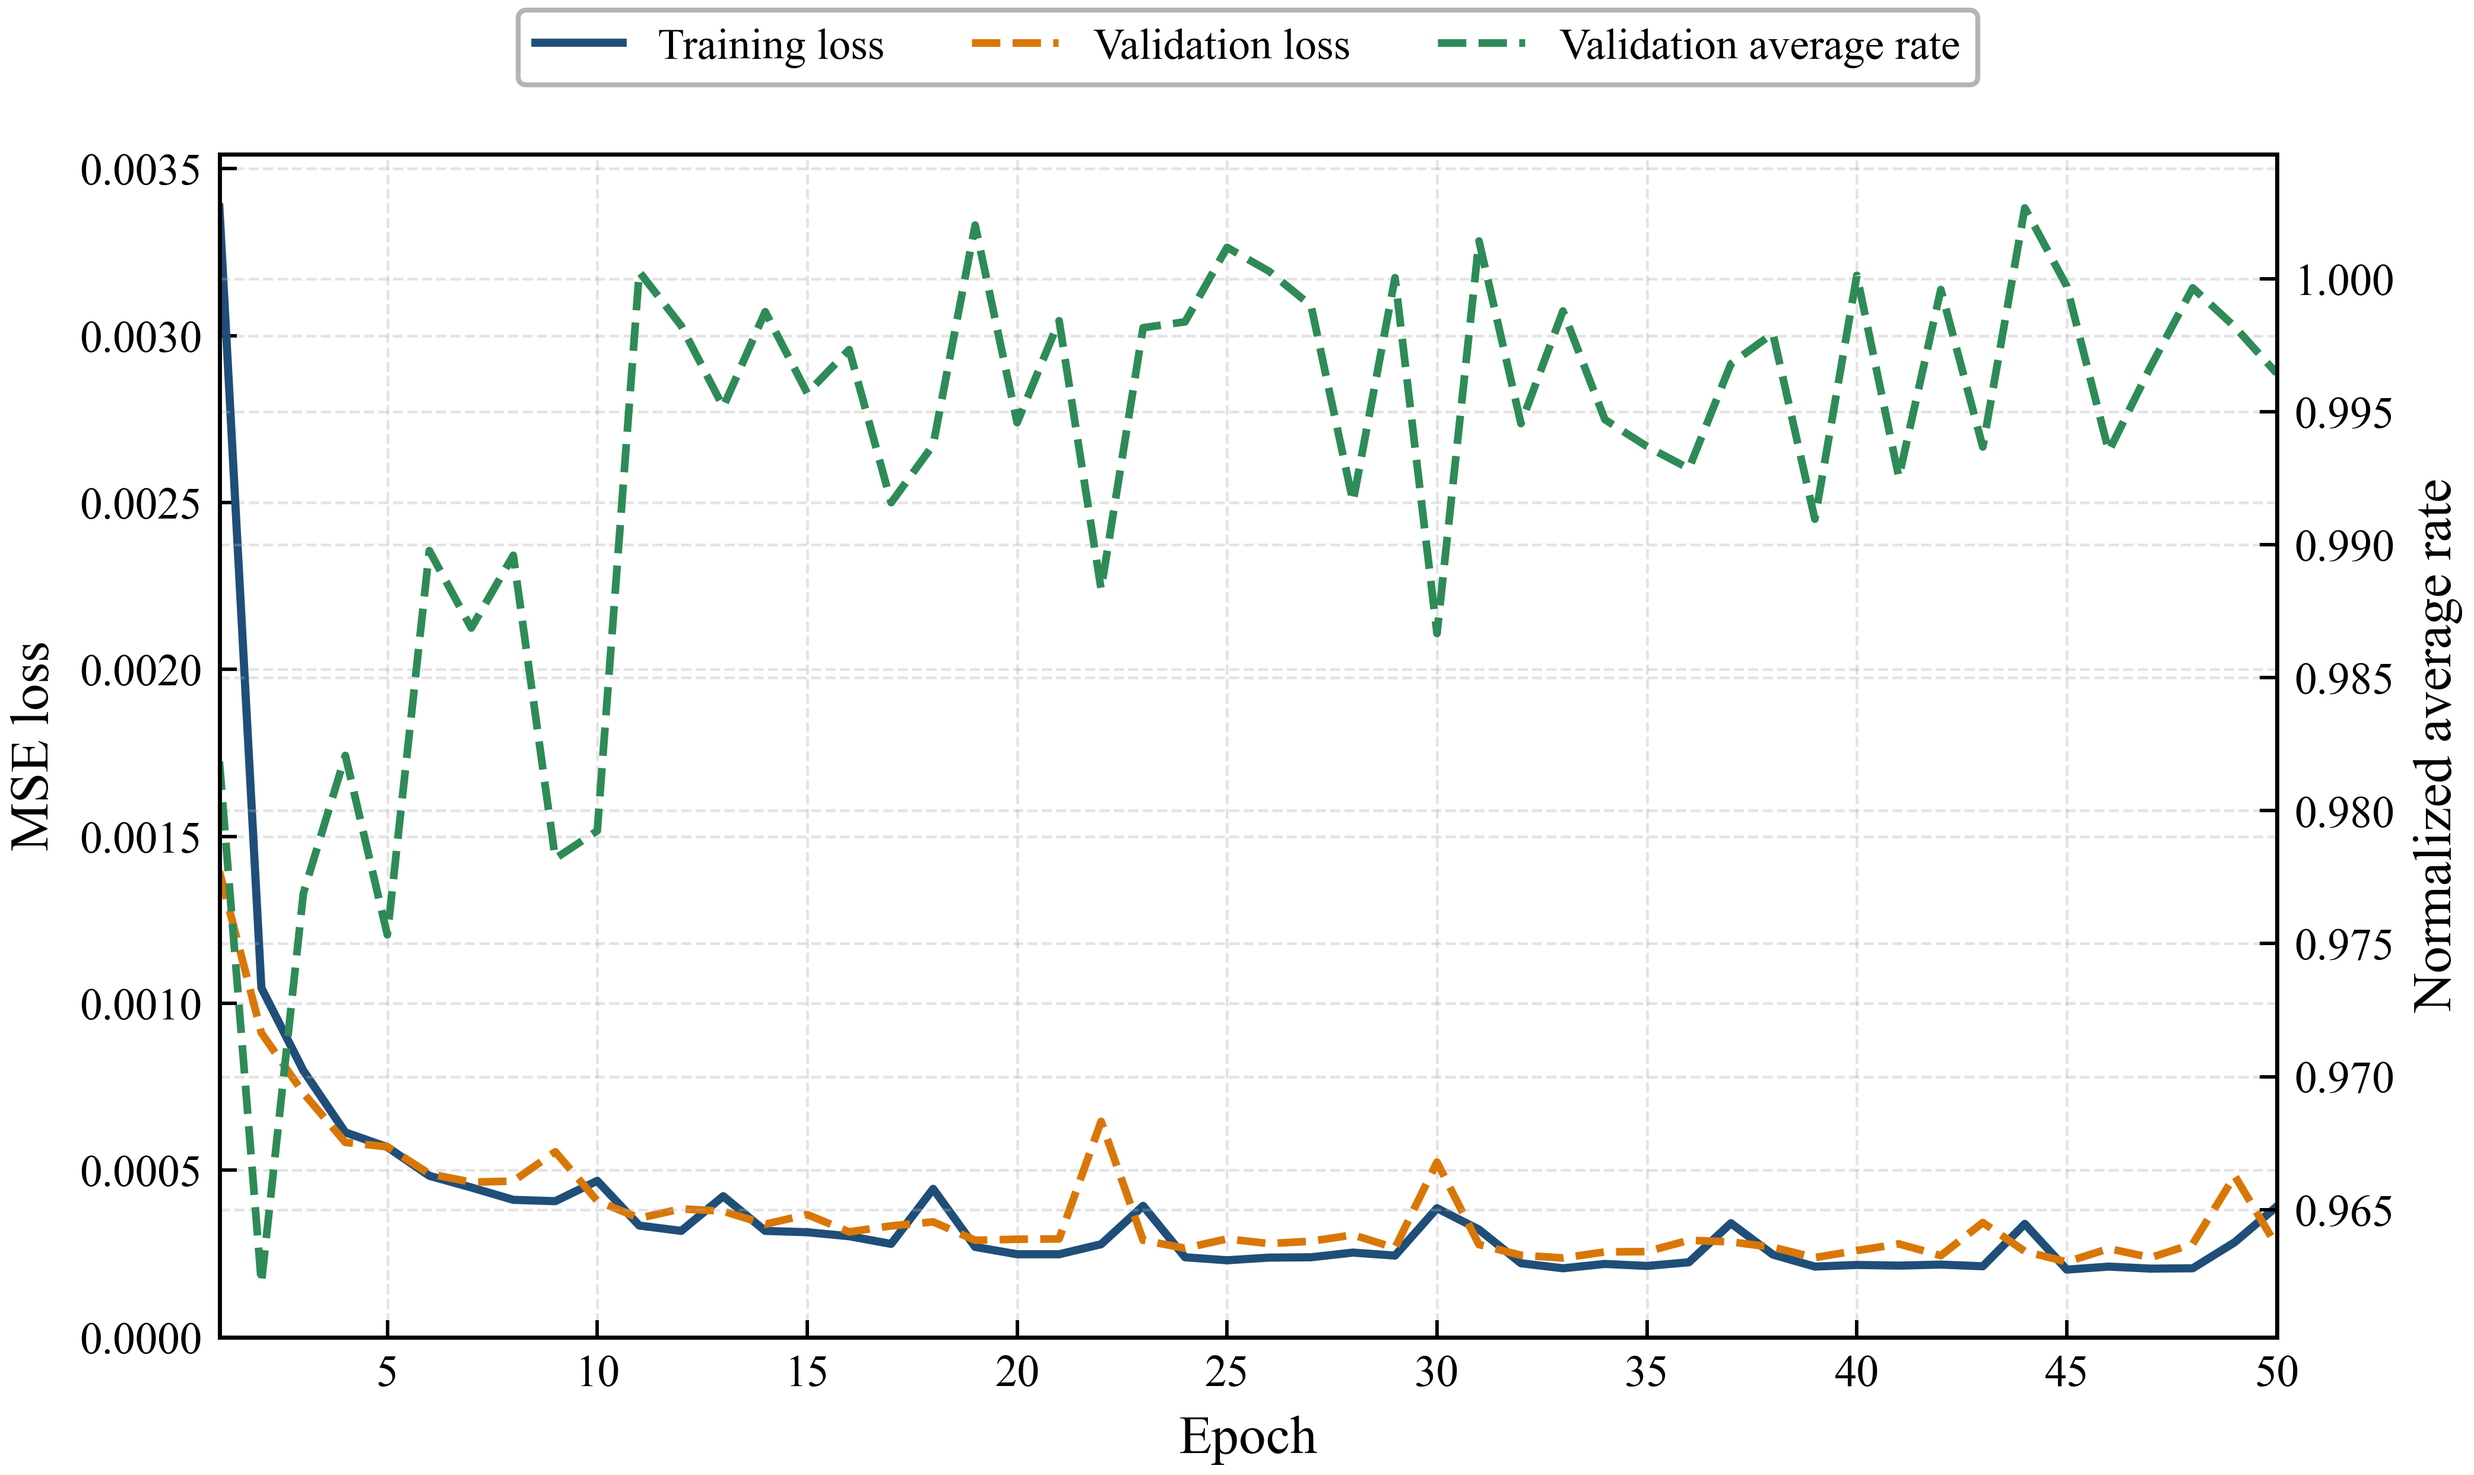
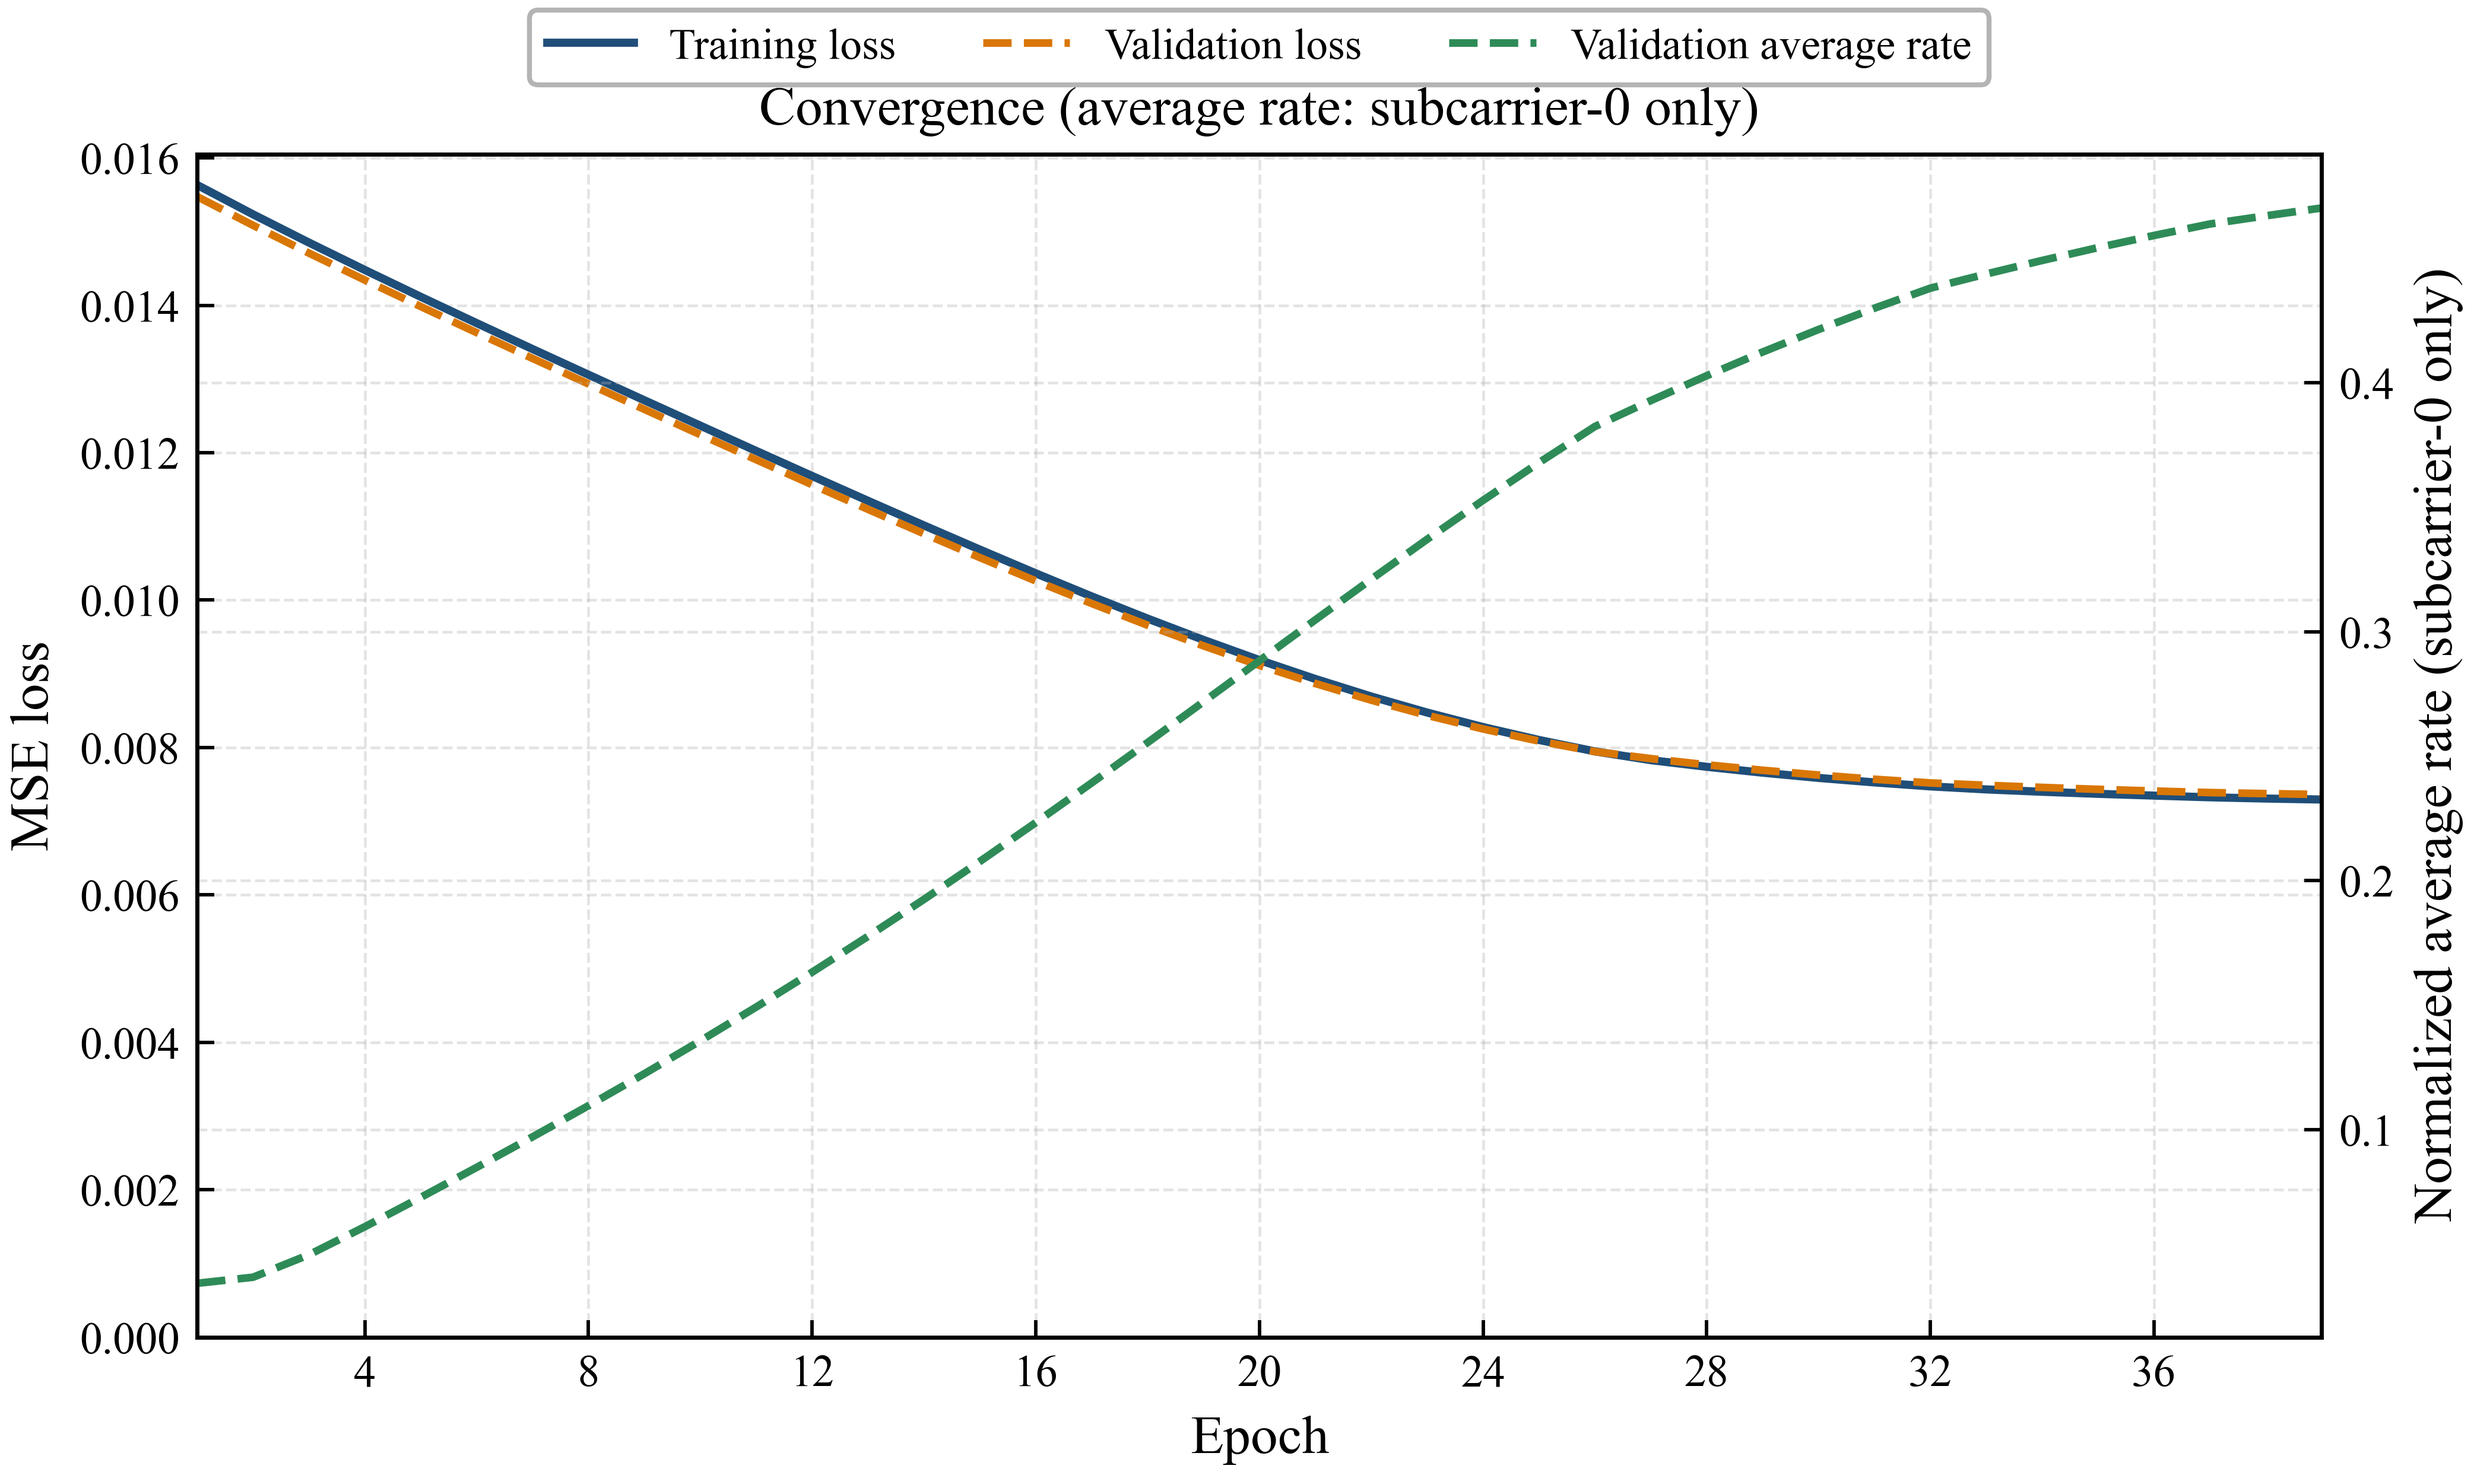
feat: SGD配置 lr=0.1, momentum=0.0, weight_decay=0.0

diff --git a/plot_ablation_results.py b/plot_ablation_results.py
@@ -158,7 +158,8 @@ def plot_convergence(log_path: Path, output_dir: Path) -> None:
 
     loss_axis.set_xlabel("Epoch")
     loss_axis.set_ylabel("MSE loss")
-    metric_axis.set_ylabel("Normalized average rate")
+    metric_axis.set_ylabel("Normalized average rate (subcarrier-0 only)")
+    loss_axis.set_title("Convergence (average rate: subcarrier-0 only)")
     loss_axis.set_xlim(series["epoch"][0], series["epoch"][-1])
     loss_axis.set_ylim(bottom=0.0)
     loss_axis.xaxis.set_major_locator(MaxNLocator(nbins=10, integer=True))
@@ -206,8 +207,8 @@ def plot_ablation_summary(
         label="Test average rate",
     )
     depth_axis.set_xlabel("Number of hidden layers, hl")
-    depth_axis.set_ylabel("Performance (%)")
-    depth_axis.set_title("Depth ablation (G = 1)")
+    depth_axis.set_ylabel("Normalized average rate (%) - subcarrier-0")
+    depth_axis.set_title("Depth ablation (G = 1, subcarrier-0 rate)")
     depth_axis.set_xticks(depth_hl)
     depth_axis.set_ylim(0.0, 105.0)
 
@@ -224,8 +225,8 @@ def plot_ablation_summary(
         label="Test average rate",
     )
     width_axis.set_xlabel("Width scaling factor, G")
-    width_axis.set_ylabel("Performance (%)")
-    width_axis.set_title("Width ablation (hl = 3)")
+    width_axis.set_ylabel("Normalized average rate (%) - subcarrier-0")
+    width_axis.set_title("Width ablation (hl = 3, subcarrier-0 rate)")
     width_axis.set_xticks(width_g)
     width_axis.set_ylim(90.0, 101.2)
 

diff --git a/MLP_Module.py b/MLP_Module.py
@@ -22,6 +22,8 @@ RIS 码本选择任务的 MLP 训练与推理模块。
 评估指标:
     avg_rate (R_plot)，即预测速率向量最大值的样本均值；genie-aided
     上界为真实 Y 速率向量最大值的样本均值。
+    注意：当前数据集标签、avg_rate 和 genie_rate 均仅使用 OFDM 子载波 0，
+    不是论文中全部子载波的平均速率，和论文完整指标存在差异。
 
 数据集来源:
     DeepMIMO O1_28 射线追踪场景；训练集、验证集和独立测试集划分来自
@@ -86,9 +88,9 @@ OUTPUT_DIM = 1024
 # 默认训练超参数对齐论文训练器。
 DEFAULT_EPOCHS = 200
 DEFAULT_BATCH_SIZE = 500
-DEFAULT_LEARNING_RATE = 0.01
-DEFAULT_SGD_MOMENTUM = 0.9
-DEFAULT_WEIGHT_DECAY = 1e-4
+DEFAULT_LEARNING_RATE = 0.1
+DEFAULT_SGD_MOMENTUM = 0.0
+DEFAULT_WEIGHT_DECAY = 0.0
 DEFAULT_SCALE_FACTOR = 1
 DEFAULT_HIDDEN_LAYERS = 3
 DEFAULT_GRAD_CLIP = 5.0
@@ -467,6 +469,7 @@ def train_one_epoch(
 # 统一计算验证集或测试集 loss、R_plot 和 genie-aided 速率。
 # ============================================================================
 
+# 当前 avg_rate 和 genie_rate 基于仅使用 OFDM 子载波 0 的数据集标签计算。
 @torch.no_grad()
 def evaluate(
     model: nn.Module,
